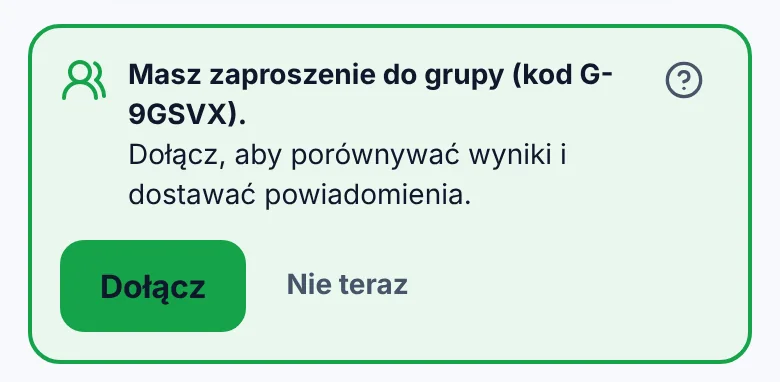
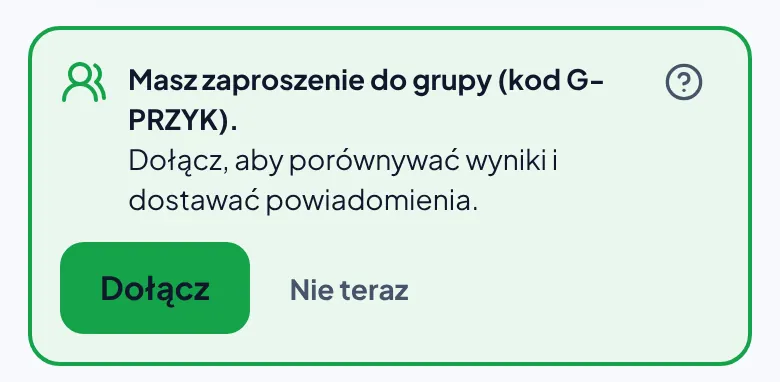
fix(prywatność): w pomocy przykładowy kod grupy zamiast prawdziwego + „Nowy kod” grupy dla założyciela
- zrzuty pomocy odświeżone z fikcyjną grupą (Rodzina Nowaków, G-PRZYK)
- właściciel grupy może wygenerować nowy kod zaproszenia; stary przestaje działać, członkowie zostają
- członkowie widzą aktualny kod po synchronizacji
- reguły: zmiana joinCode przez właściciela, usunięcie starego kodu

Claude-Session: https://claude.ai/code/session_016DA2yuD5XfoVRk5HcLGw66

diff --git a/src/help/HelpShots.tsx b/src/help/HelpShots.tsx
@@ -20,8 +20,8 @@ import type { CircleMembership } from '../types/math';
 
 const ok = async () => ({ ok: true });
 const circles: CircleMembership[] = [
-  { id: 'c1', name: 'Rodzinka G', code: 'G-9GSVX', share: true, owner: true },
-  { id: 'c2', name: 'Nasza paczka', code: 'G-K7P2M', share: false },
+  { id: 'c1', name: 'Rodzina Nowaków', code: 'G-PRZYK', share: true, owner: true },
+  { id: 'c2', name: 'Nasza paczka', code: 'G-DEMO1', share: false },
 ];
 
 const NOW = Date.now();
@@ -54,7 +54,7 @@ function CertificateShot() {
   const c = document.createElement('canvas');
   renderCertificate(c, {
     kind: 'tournament',
-    playerName: 'Ola',
+    playerName: 'Hania',
     title: 'Wielki Finał Konkursowy',
     distinction: 'Złoty Medal',
     accuracyPct: 100,
@@ -74,11 +74,11 @@ export function HelpShots() {
     document.documentElement.style.setProperty(k, v);
   }
   try {
-    window.localStorage.setItem('mt_pending_invite', 'G-9GSVX');
+    window.localStorage.setItem('mt_pending_invite', 'G-PRZYK');
   } catch {
     // ignore
   }
-  const demo = { ...createFreshProfile('Ola', 'owl'), login: 'ola', passwordHash: 'x' };
+  const demo = { ...createFreshProfile('Hania', 'owl'), login: 'hania', passwordHash: 'x' };
   const panelProps = {
     circles,
     selectedCircleId: 'c1',
@@ -136,10 +136,10 @@ export function HelpShots() {
       </div>
       <div id="shot-wyzwania-w-grupie" className="px-1 pb-2">
         <GroupRivalry
-          meId="Ola"
-          groupName="Rodzinka G"
+          meId="Hania"
+          groupName="Rodzina Nowaków"
           profiles={[
-            demoPlayer('Ola', 666, 1, 92, 2.6, 4, ['braz']),
+            demoPlayer('Hania', 666, 1, 92, 2.6, 4, ['braz']),
             demoPlayer('Kuba', 2400, 5, 88, 3.4, 12, ['zloto', 'srebro']),
             demoPlayer('Aga', 1500, 3, 97, 2.4, 7, []),
             demoPlayer('Tata', 441, 2, 80, 4.1, 3, ['braz']),
@@ -173,7 +173,7 @@ export function HelpShots() {
               actorProfileId: 'k',
               actorName: 'Kuba',
               targetProfileId: demo.id,
-              title: 'Kuba wyprzedza Cię w grupie „Rodzinka G”!',
+              title: 'Kuba wyprzedza Cię w grupie „Rodzina Nowaków”!',
               message: 'Kuba ma 640 XP, a Ty 610 XP. Jedna seria i możesz odzyskać miejsce!',
               readByProfileIds: [],
             },

diff --git a/src/components/GroupsPanel.tsx b/src/components/GroupsPanel.tsx
@@ -41,6 +41,8 @@ interface GroupsPanelProps {
   ) => Promise<{ ok: boolean; error?: string; circle?: CircleMembership }>;
   onJoinGroup: (code: string) => Promise<{ ok: boolean; error?: string }>;
   onLeaveGroup: (circleId: string) => Promise<{ ok: boolean; error?: string }>;
+  /** Nowy kod zaproszenia (tylko założyciel grupy). */
+  onChangeCode?: (circleId: string) => Promise<{ ok: boolean; code?: string; error?: string }>;
   onSetShare: (circleId: string, share: boolean) => void;
   onOpenAccount: () => void;
   /** Tylko do zrzutów ekranu w instrukcji. */
@@ -62,6 +64,7 @@ export function GroupsPanel({
   onCreateGroup,
   onJoinGroup,
   onLeaveGroup,
+  onChangeCode,
   onSetShare,
   onOpenAccount,
   demoJustCreated,
@@ -411,6 +414,21 @@ export function GroupsPanel({
                             {c.share ? <Eye className="w-3.5 h-3.5" aria-hidden="true" /> : <EyeOff className="w-3.5 h-3.5" aria-hidden="true" />}
                             {c.share ? 'Moje wyniki widoczne' : 'Moje wyniki ukryte'}
                           </button>
+                          {c.owner && onChangeCode && (
+                            <button
+                              type="button"
+                              disabled={busy}
+                              title="Stary kod przestanie działać. Osoby w grupie zostają."
+                              onClick={() => {
+                                if (window.confirm(`Zmienić kod grupy „${c.name}”? Stary kod ${c.code} przestanie działać, a osoby, które już są w grupie, zostaną.`)) {
+                                  void run(() => onChangeCode(c.id), () => {});
+                                }
+                              }}
+                              className="min-h-[38px] px-3 rounded-xl border border-[var(--th-border)] text-xs font-bold text-[var(--th-text)] inline-flex items-center gap-1.5 cursor-pointer"
+                            >
+                              Nowy kod
+                            </button>
+                          )}
                           <button
                             type="button"
                             disabled={busy}

diff --git a/src/store/useAppStore.ts b/src/store/useAppStore.ts
@@ -76,6 +76,7 @@ import {
   getSignedInAccountUid,
   joinCircleByCode,
   leaveCircle,
+  rotateCircleCode,
   publishCircleCards,
   pushAccountProfile,
   pushHistory,
@@ -1163,7 +1164,12 @@ export function useAppStore() {
             profiles: prev.profiles.map((x) =>
               x.id !== profileId
                 ? x
-                : { ...x, circles: (x.circles ?? []).map((cc) => (cc.id === upd.id ? { ...cc, owner: true } : cc)) }
+                : {
+                    ...x,
+                    circles: (x.circles ?? []).map((cc) =>
+                      cc.id === upd.id ? { ...cc, owner: upd.owner || cc.owner, code: upd.code } : cc
+                    ),
+                  }
             ),
           }));
         }
@@ -1971,6 +1977,23 @@ export function useAppStore() {
     [requireSyncedActive, updateProfileCircles]
   );
 
+  const changeGroupCode = useCallback(
+    async (circleId: string): Promise<{ ok: boolean; code?: string; error?: string }> => {
+      const p = requireSyncedActive();
+      if (typeof p === 'string') return { ok: false, error: p };
+      const c = (p.circles ?? []).find((x) => x.id === circleId);
+      if (!c?.owner) return { ok: false, error: 'Kod może zmienić tylko osoba, która założyła grupę.' };
+      try {
+        const code = await rotateCircleCode(profileLogin(p), c);
+        updateProfileCircles(p.id, (list) => list.map((x) => (x.id === circleId ? { ...x, code } : x)));
+        return { ok: true, code };
+      } catch (err) {
+        return { ok: false, error: describeAccountError(err) };
+      }
+    },
+    [requireSyncedActive, updateProfileCircles]
+  );
+
   const setGroupShare = useCallback(
     (circleId: string, share: boolean) => {
       const snap = storeRef.current;
@@ -2094,6 +2117,7 @@ export function useAppStore() {
     createGroup,
     joinGroup,
     leaveGroup,
+    changeGroupCode,
     setGroupShare,
   };
 }

diff --git a/src/engine/accountCloud.ts b/src/engine/accountCloud.ts
@@ -428,7 +428,12 @@ export async function ensureCircleMembership(login: string, circle: CircleMember
   if (!code || !/^[A-Z0-9-]{4,16}$/.test(code) || !/^[a-zA-Z0-9_-]{1,128}$/.test(circle.id)) return null;
   const memberRef = doc(db, 'circles', circle.id, 'members', uid);
   const already = await getDoc(memberRef).catch(() => null);
-  if (already?.exists()) return null;
+  if (already?.exists()) {
+    // Właściciel mógł zmienić kod grupy — pokaż aktualny.
+    const cur = await getDoc(doc(db, 'circles', circle.id)).catch(() => null);
+    const fresh = cur?.exists() ? String(cur.data().joinCode ?? '') : '';
+    return fresh && fresh !== code ? { ...circle, code: fresh } : null;
+  }
   const codeSnap = await getDoc(doc(db, 'circleCodes', code));
   if (codeSnap.exists()) {
     if (String(codeSnap.data().circleId) !== circle.id) return null;
@@ -452,6 +457,18 @@ export async function ensureCircleMembership(login: string, circle: CircleMember
     await setDoc(memberRef, { uid, joinCode: code, joinedAt: serverTimestamp() }).catch(() => {});
     return null;
   }
+}
+
+/** Nowy kod zaproszenia (np. gdy stary trafił w niepowołane ręce). Stary kod przestaje działać; członkowie zostają. */
+export async function rotateCircleCode(login: string, circle: CircleMembership): Promise<string> {
+  const { db } = requireAccount(login);
+  const newCode = `G-${randomCode(5)}`;
+  const batch = writeBatch(db);
+  batch.update(doc(db, 'circles', circle.id), { joinCode: newCode });
+  batch.set(doc(db, 'circleCodes', newCode), { circleId: circle.id, createdAt: serverTimestamp() });
+  batch.delete(doc(db, 'circleCodes', circle.code));
+  await batch.commit();
+  return newCode;
 }
 
 export async function leaveCircle(login: string, circleId: string): Promise<void> {

diff --git a/src/help/helpContent.ts b/src/help/helpContent.ts
@@ -259,13 +259,13 @@ export const HELP_SECTIONS: HelpSection[] = [
     lead: 'Grupę zakłada jedna osoba, a potem wysyła zaproszenie.',
     steps: [
       'Statystyki → „Dodaj grupę” (albo „Zarządzaj”, jeśli masz już jakąś grupę).',
-      'Wpisz nazwę, np. „Rodzinka G”, i naciśnij „Załóż”.',
+      'Wpisz nazwę, np. „Rodzina Nowaków”, i naciśnij „Załóż”.',
       'Pojawi się karta z kodem grupy. „Wyślij zaproszenie” — link SMS-em, WhatsAppem lub Messengerem.',
       'Kolejne osoby zaprosisz przyciskiem „Zaproś” obok kodu grupy.',
     ],
     image: 'help/grupa-zalozona.webp',
     imageAlt: 'Karta „Grupa gotowa” z kodem i przyciskiem Wyślij zaproszenie',
-    tip: 'Wystarczy przekazać link z zaproszenia. Bez linku podaj kod grupy, np. G-9GSVX.',
+    tip: 'Wystarczy przekazać link z zaproszenia. Bez linku podaj kod grupy, np. G-PRZYK.',
   },
   {
     id: 'group-join',

diff --git a/src/App.tsx b/src/App.tsx
@@ -98,6 +98,7 @@ export default function App() {
     createGroup,
     joinGroup,
     leaveGroup,
+    changeGroupCode,
     setGroupShare,
   } = useAppStore();
 
@@ -253,6 +254,7 @@ export default function App() {
       onCreateGroup={createGroup}
       onJoinGroup={joinGroup}
       onLeaveGroup={leaveGroup}
+      onChangeCode={changeGroupCode}
       onSetShare={setGroupShare}
       onOpenAccount={() => handleSelectTab('konto')}
     />

diff --git a/src/dev/adminDemo.tsx b/src/dev/adminDemo.tsx
@@ -21,7 +21,7 @@ export const DEMO: AdminDemoData = {
     sessions: 10 + i * 3,
     lastActiveDate: new Date(now - i * DAY * 1.5).toISOString().slice(0, 10),
     updatedAtMs: now - i * DAY * 1.5,
-    groups: i % 2 ? ['3B (G-9GSVX)'] : [],
+    groups: i % 2 ? ['3B (G-PRZYK)'] : [],
     recent: Array.from({ length: 12 - i }, (_, k) => ({
       t: now - Math.floor(rnd() * 14) * DAY - k * 3600_000,
       kind: kinds[Math.floor(rnd() * 4)],
